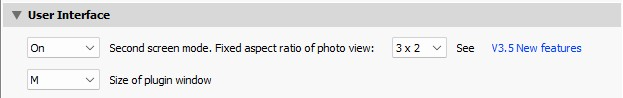
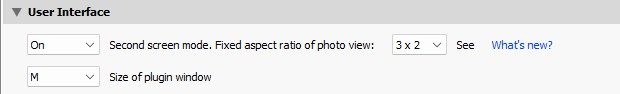
Update docs

diff --git a/README.md b/README.md
@@ -1,3 +1,5 @@
+# Introduction
+
 <img src="docs/images/ReadMe 1.jpg" alt="Screenshot" style="width: 800px;"/>
 
 A plugin for Lightroom Classic<sup>1</sup> on Windows and macOS: 

diff --git a/docs/Focus-Points.md b/docs/Focus-Points.md
@@ -1,6 +1,6 @@
 # User Manual
 
-## Content ##
+## Content
 
 ### [Troubleshooting / FAQ](Troubleshooting_FAQ.md#troubleshooting--faq)
 
